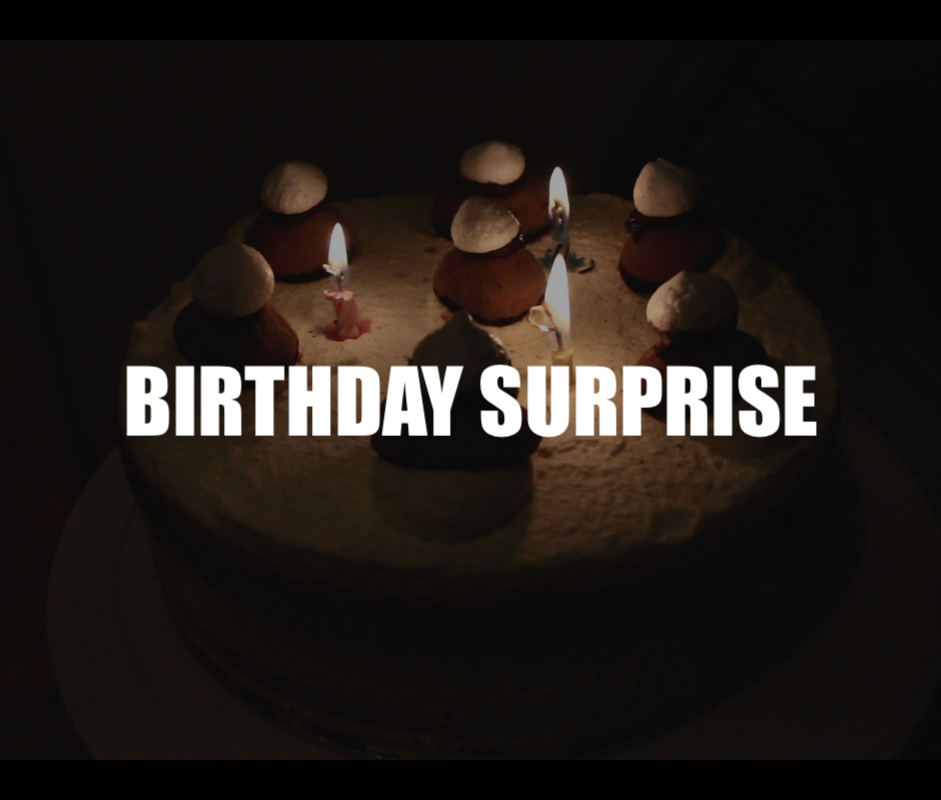
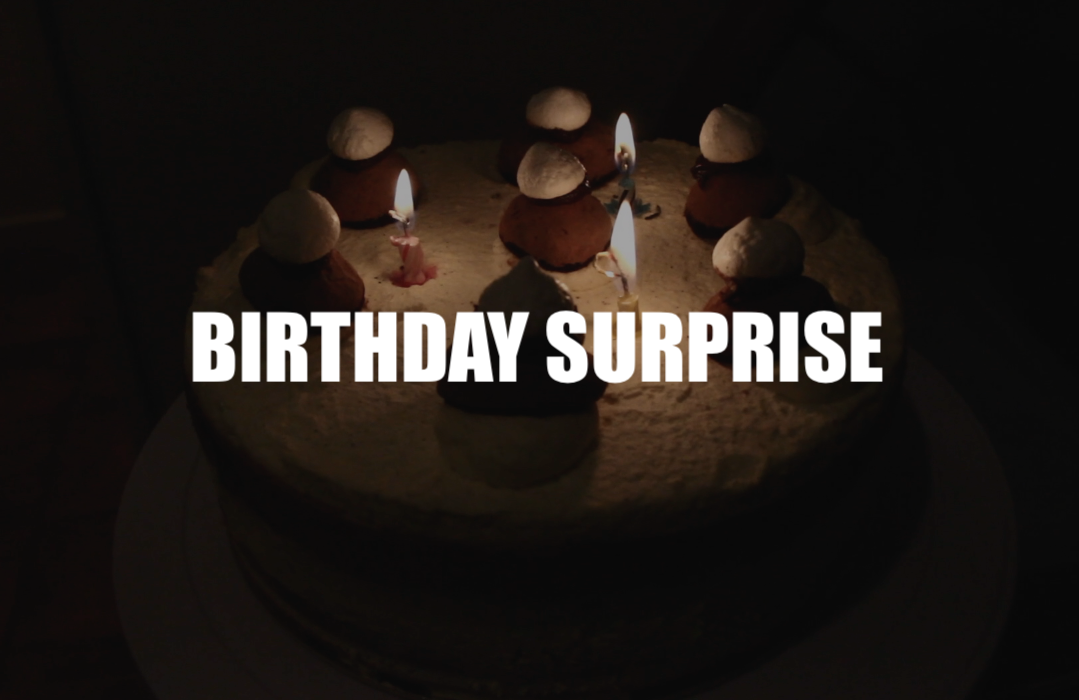
Semi-finished project section, ready for deploying.

diff --git a/src/components/ProjectsComponent.vue b/src/components/ProjectsComponent.vue
@@ -2,41 +2,57 @@
     <div id="projects-component">
         <div>
             <b-jumbotron
-                    :class="{ 'project-jumbotron-hovered': !isSoftware }"
-                    @mouseover="this.toggleSoftwareHover"
-                    @mouseleave="this.toggleSoftwareUnhover">
+                    @mouseover="isSoftware = false"
+                    @mouseleave="isSoftware = true">
                 <template v-if="isSoftware" v-slot:header>
                     <div class="project-header-unhovered">
                         <h1>software</h1>
                     </div>
                 </template>
                 <template v-else v-slot:lead>
-                    <div class="item"
+                    <a class="item"
                          v-for="snippet in softwareSnippets"
                          :key="snippet.id"
-                         v-bind:style="{ backgroundImage: 'url(' + require('@/assets/' + snippet.url) + ')' }"
+                         v-bind:style="{ backgroundImage: 'url(' + require('@/assets/' + snippet.path) + ')' }"
+                         :href="snippet.url" target="_blank"
                     >
-                    </div>
+                            <div v-if="snippet.id !== 3" class="software-snippet-details">
+                                <h1> {{ snippet.name }} </h1>
+                                <ul class="skills-list">
+                                    <li v-for="skill in snippet.skills" :key="skill">
+                                        <h3>
+                                            <b-badge pill variant="light" > {{ skill }} </b-badge>
+                                        </h3>
+                                    </li>
+                                </ul>
+                            </div>
+                            <div v-else class="software-snippet-details">
+                                <h1 id="software-more"> {{ snippet.name }} </h1>
+                            </div>
+                    </a>
                 </template>
             </b-jumbotron>
         </div>
         <div>
             <b-jumbotron
-                    :class="{ 'project-jumbotron-hovered': !isShortFilm }"
-                    @mouseover="this.toggleShortFilmHover"
-                    @mouseleave="this.toggleShortFilmUnhover">
+                    @mouseover="isShortFilm = false"
+                    @mouseleave="isShortFilm = true">
                 <template v-if="isShortFilm" v-slot:header>
                     <div class="project-header-unhovered">
                         <h1>short films</h1>
                     </div>
                 </template>
                 <template v-else v-slot:lead>
-                    <div class="item"
+                    <a class="item"
                          v-for="snippet in shortFilmSnippets"
                          :key="snippet.id"
-                         v-bind:style="{ backgroundImage: 'url(' + require('@/assets/' + snippet.url) + ')' }"
+                         v-bind:style="{ backgroundImage: 'url(' + require('@/assets/' + snippet.path) + ')' }"
+                         :href="snippet.url" target="_blank"
                     >
-                    </div>
+                        <div class="short-film-snippet-details">
+                            <h2 class="short-film-name"> {{ snippet.name }} </h2>
+                        </div>
+                    </a>
                 </template>
             </b-jumbotron>
         </div>
@@ -97,54 +113,60 @@
                 softwareSnippets: [
                     {
                         id: 1,
-                        url: "images/SpaceJamSnippet.png"
+                        path: "images/SpaceJamSnippet.png",
+                        url: "https://www.youtube.com/watch?v=rwLaeRA3WpI",
+                        name: "SPACE JAM",
+                        skills: [
+                            'Java',
+                            'Swing'
+                        ]
                     },
                     {
                         id: 2,
-                        url: "images/BecomeASaintSnippet.png"
+                        path: "images/BecomeASaintSnippet.png",
+                        url: null,
+                        name: "BECOME A SAINT",
+                        skills: [
+                            'Vue.js',
+                            'Node.js',
+                            'MySQL'
+                        ]
                     },
                     {
                         id: 3,
-                        url: "images/abstract-bg.jpg"
+                        path: "images/abstract-bg.jpg",
+                        url: "https://github.com/hiphoppopotamus",
+                        name: "MORE PROJECTS"
                     }
                 ]
                 ,
                 shortFilmSnippets: [
                     {
                         id: 1,
-                        url: "images/SneezeSnippet.png"
+                        path: "images/SneezeSnippet.png",
+                        url: "https://www.youtube.com/watch?v=elbYKKMY3HM",
+                        name: "SNEEZE",
+                        director: "Daphne Martinez & Euan Widjaja"
                     },
                     {
                         id: 2,
-                        url: "images/BirthdaySurpriseSnippet.png"
+                        path: "images/BirthdaySurpriseSnippet.png",
+                        url: "https://www.youtube.com/watch?v=Grb-r-GJyYk",
+                        name: "BIRTHDAY SURPRISE",
+                        director: "Euan Widjaja"
+
                     },
                     {
                         id: 3,
-                        url: "images/abstract-bg.jpg"
+                        path: "images/abstract-bg.jpg",
+                        name: "COMING SOON"
                     }
                 ]
-                // background-image: url("../assets/images/SpaceJamSnippet.png");
-
             }
         },
 
         methods: {
 
-            toggleSoftwareHover() {
-                this.isSoftware = false;
-            },
-
-            toggleSoftwareUnhover() {
-                this.isSoftware = true;
-            },
-
-            toggleShortFilmHover() {
-                this.isShortFilm = false;
-            },
-
-            toggleShortFilmUnhover() {
-                this.isShortFilm = true;
-            }
         }
     }
 </script>
@@ -153,10 +175,6 @@
     #projects-component {
         -webkit-font-smoothing: antialiased;
         -moz-osx-font-smoothing: grayscale;
-    }
-
-    #project-container {
-
     }
 
     .jumbotron {
@@ -173,7 +191,7 @@
         font-family: FuturaLT-CondExtraBoldObl, Avenir, Helvetica, Arial, sans-serif;
     }
 
-    .project-jumbotron-hovered {
+    .jumbotron:hover {
         padding: 0 0 0 0;
         background:
                 linear-gradient(
@@ -190,14 +208,8 @@
         text-shadow: 5px 5px 2px #102e3c;
     }
 
-    .project-display-3-hovered {
-    }
-
     .project-header-unhovered h1 {
         font-size: 90%;
-    }
-
-    .project-header-hovered {
     }
 
     .lead {
@@ -217,15 +229,49 @@
         border: 2px hidden #f00;
         border-radius: 12px;
 
-        /*background-image: url("../assets/images/SneezeSnippet.png");*/
         background-repeat: no-repeat;
         background-size: 100%;
+        box-shadow:inset 0 0 0 2000px rgba(9, 9, 9, 0.6);
 
         flex: 0 0 388px;
         text-align: center;
-        transition: transform 300ms ease 100ms;
     }
 
+    .software-snippet-details {
+        margin-top: 75px;
+        color: white;
+    }
+
+    .short-film-snippet-details {
+        margin-top: 105px;
+        color: white;
+    }
+
+    .short-film-name {
+        margin-top: 50px;
+
+    }
+
+    #software-more {
+        margin-top: 100px;
+    }
+
+    .skills-list {
+        display: flex;
+        text-align: center;
+        align-items: center;
+        justify-content: center;
+        margin-top: 15px;
+        padding: 0;
+        list-style-type: none;
+    }
+
+    .skills-list li{
+        margin: 0 5px;
+    }
+
+    .skills-list li:hover{
+    }
 
 
 
@@ -306,6 +352,8 @@
         margin-top: 0;
         margin-left: 60px;
     }
+
+
 
 
     /*#projects-header-container {*/
